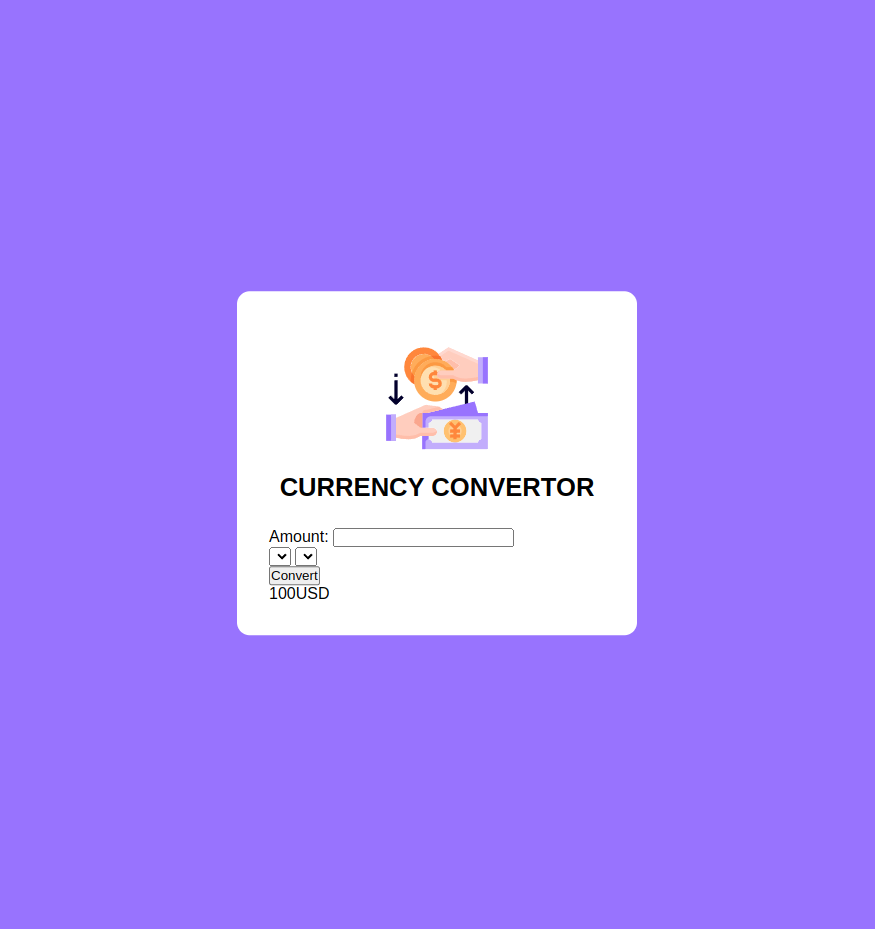
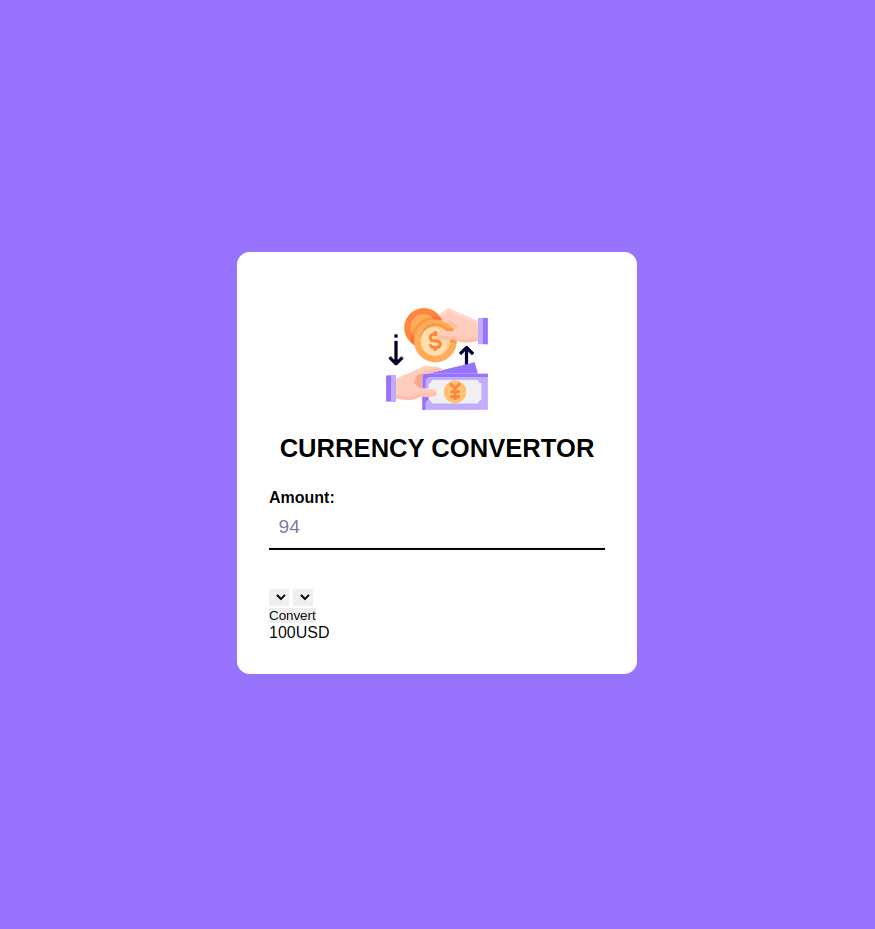
sorted amount label and input section with css and html

Changed region(s): [[0.2469, 0.2497, 0.7406, 0.7492]]

diff --git a/style.css b/style.css
@@ -1,44 +1,62 @@
-*{
-    margin: 0;
-    padding: 0;
-    font-family: 'Poppins',sans-serif;
-    box-sizing: border-box;
-    outline: none;
-    /* border: none; */
+* {
+  margin: 0;
+  padding: 0;
+  font-family: "Poppins", sans-serif;
+  box-sizing: border-box;
+  outline: none;
+  border: none;
 }
 
-body{
-    background-color: #9873fe;
+body {
+  background-color: #9873fe;
 }
 
-.wrapper{
-    background-color: #fff;
-    width: 90%;
-    max-width: 25em;
-    position: absolute;
-    left: 50%;
-    top: 50%;
-    transform: translate(-50%,-50%);
-    border-radius: 0.8em;
-    padding: 2em;
+.wrapper {
+  background-color: #fff;
+  width: 90%;
+  max-width: 25em;
+  position: absolute;
+  left: 50%;
+  top: 50%;
+  transform: translate(-50%, -50%);
+  border-radius: 0.8em;
+  padding: 2em;
 }
 
-.app-details{
-    display: flex;
-    flex-direction: column;
-    align-items: center;
-    justify-content: center;
+.app-details {
+  display: flex;
+  flex-direction: column;
+  align-items: center;
+  justify-content: center;
 }
 
-
-.appicon{
-    width: 9.37em;
-
+label {
+  font-weight: 600;
+  display: block;
+}
+.appicon {
+  width: 9.37em;
 }
 
-
-.heading{
-    text-transform: uppercase;
-    margin-bottom: 1em;
-    font-size: 1.6em;
+.heading {
+  text-transform: uppercase;
+  margin-bottom: 1em;
+  font-size: 1.6em;
 }
+
+input#amount {
+  font-weight: 400;
+  font-size: 1.2em;
+  display: block;
+  width: 100%;
+  border-bottom: 2px solid black;
+  color: #7a789d;
+  margin-bottom: 2em;
+  padding: 0.5em;
+}
+
+input#amount:focus {
+  color: #9873fe;
+  border-color: #9873fe;
+}
+

diff --git a/index.html b/index.html
@@ -13,7 +13,7 @@
             <h2 class="heading">Currency Convertor</h2>
         </div>
         <label for="amount">Amount: </label>
-        <input type="text">
+        <input type="number" id="amount" value="100">
         <div class="dropdowns">
             <select name="" id=""></select>
             <select name="" id=""></select>
